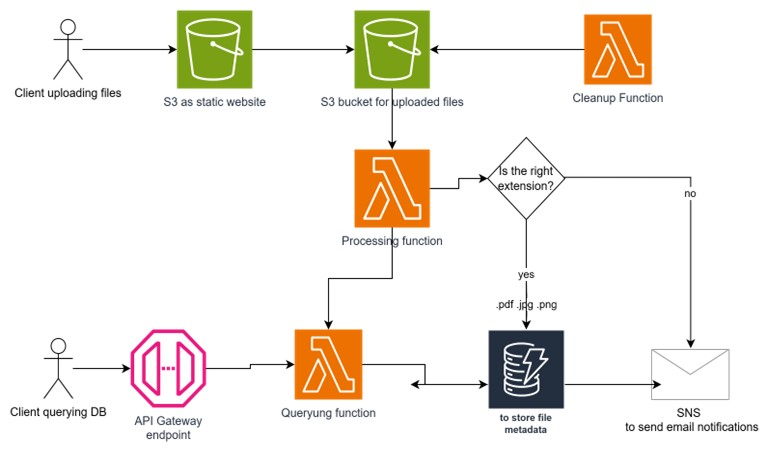
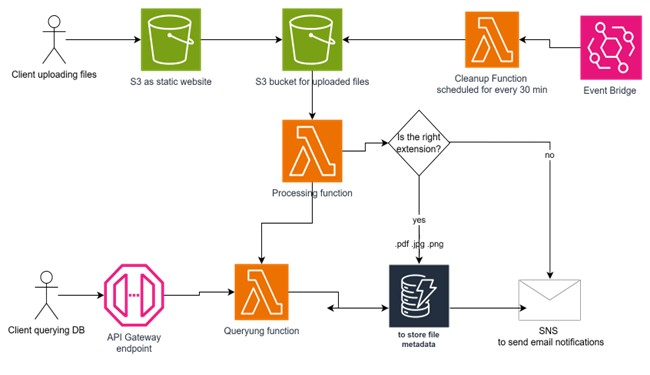
Running Lambda Cleanup function.

diff --git a/aws_essentials_exam/aws_essentials_exam_stack.py b/aws_essentials_exam/aws_essentials_exam_stack.py
@@ -75,7 +75,7 @@ class AwsEssentialsExamStack(Stack):
         # Grant permissions for uploads (e.g., via a web app or Lambda)
         upload_files_bucket.add_to_resource_policy(
             iam.PolicyStatement(
-                actions=["s3:PutObject"],
+                actions=["s3:PutObject","s3:DeleteObject"],
                 resources=[upload_files_bucket.arn_for_objects("*")],
                 principals=[iam.AnyPrincipal()],  # Use specific IAM roles or users in production
                 conditions={
@@ -102,38 +102,6 @@ class AwsEssentialsExamStack(Stack):
             description="S3 Bucket ARN for Uploading Files",
         )
 
-
-        # ------------
-
-        # # S3 Bucket for static website hosting
-        # upload_files_bucket = s3.Bucket(
-        #     self,
-        #     "UploadFilesBucket",  # here are stored uploaded by the client files
-        #     bucket_name='uploaded-by-client',
-        #     website_index_document="index.html",
-        #     public_read_access=True,
-        #     block_public_access=s3.BlockPublicAccess.BLOCK_ACLS,
-        #     removal_policy=RemovalPolicy.DESTROY,
-        #     auto_delete_objects=True,
-        # )
-        #
-        # # Deploy HTML files to the S3 bucket
-        # s3_deployment.BucketDeployment(
-        #     self,
-        #      "DeployWebsiteContent",
-        #     sources=[s3_deployment.Source.asset("website")],  # Folder containing HTML files
-        #     destination_bucket=upload_files_bucket,
-        # )
-        #
-        # # Output the website URL
-        # CfnOutput(
-        #     self,
-        #     "WebsiteURL",
-        #     value=upload_files_bucket.bucket_website_url,
-        #     description="URL for the static website",
-        # )
-
-
         # DynamoDB table for storing file metadata
         metadata_table = dynamodb.Table(
             self,
@@ -145,7 +113,7 @@ class AwsEssentialsExamStack(Stack):
         )
 
         # SNS Topic for notifications
-        notification_topic = sns.Topic(self, "Received File Notification")
+        notification_topic = sns.Topic(self, "Received File")
 
         # Add an email subscription (update with the client's email)
         notification_topic.add_subscription(subscriptions.EmailSubscription(self.client_mail))
@@ -196,6 +164,10 @@ class AwsEssentialsExamStack(Stack):
         upload_files_bucket.grant_read_write(cleanup_function)
 
         # EventBridge rule to trigger the Lambda function every 30 minutes
+        """
+         The first invocation of the rule starts approximately when the rule is created 
+         or enabled. 
+        """
         event_rule = events.Rule(
             self,
             "CleanupRule",

diff --git a/lambda_code/cleanup_function.py b/lambda_code/cleanup_function.py
@@ -4,7 +4,7 @@ from datetime import datetime, timezone, timedelta
 
 def lambda_handler(event, context):
     s3 = boto3.client('s3')
-    bucket_name = os.environ['uploaded-by-client']
+    bucket_name = os.environ[ "BUCKET_NAME"]
     retention_period = timedelta(minutes=30)
 
     # List objects in the bucket
